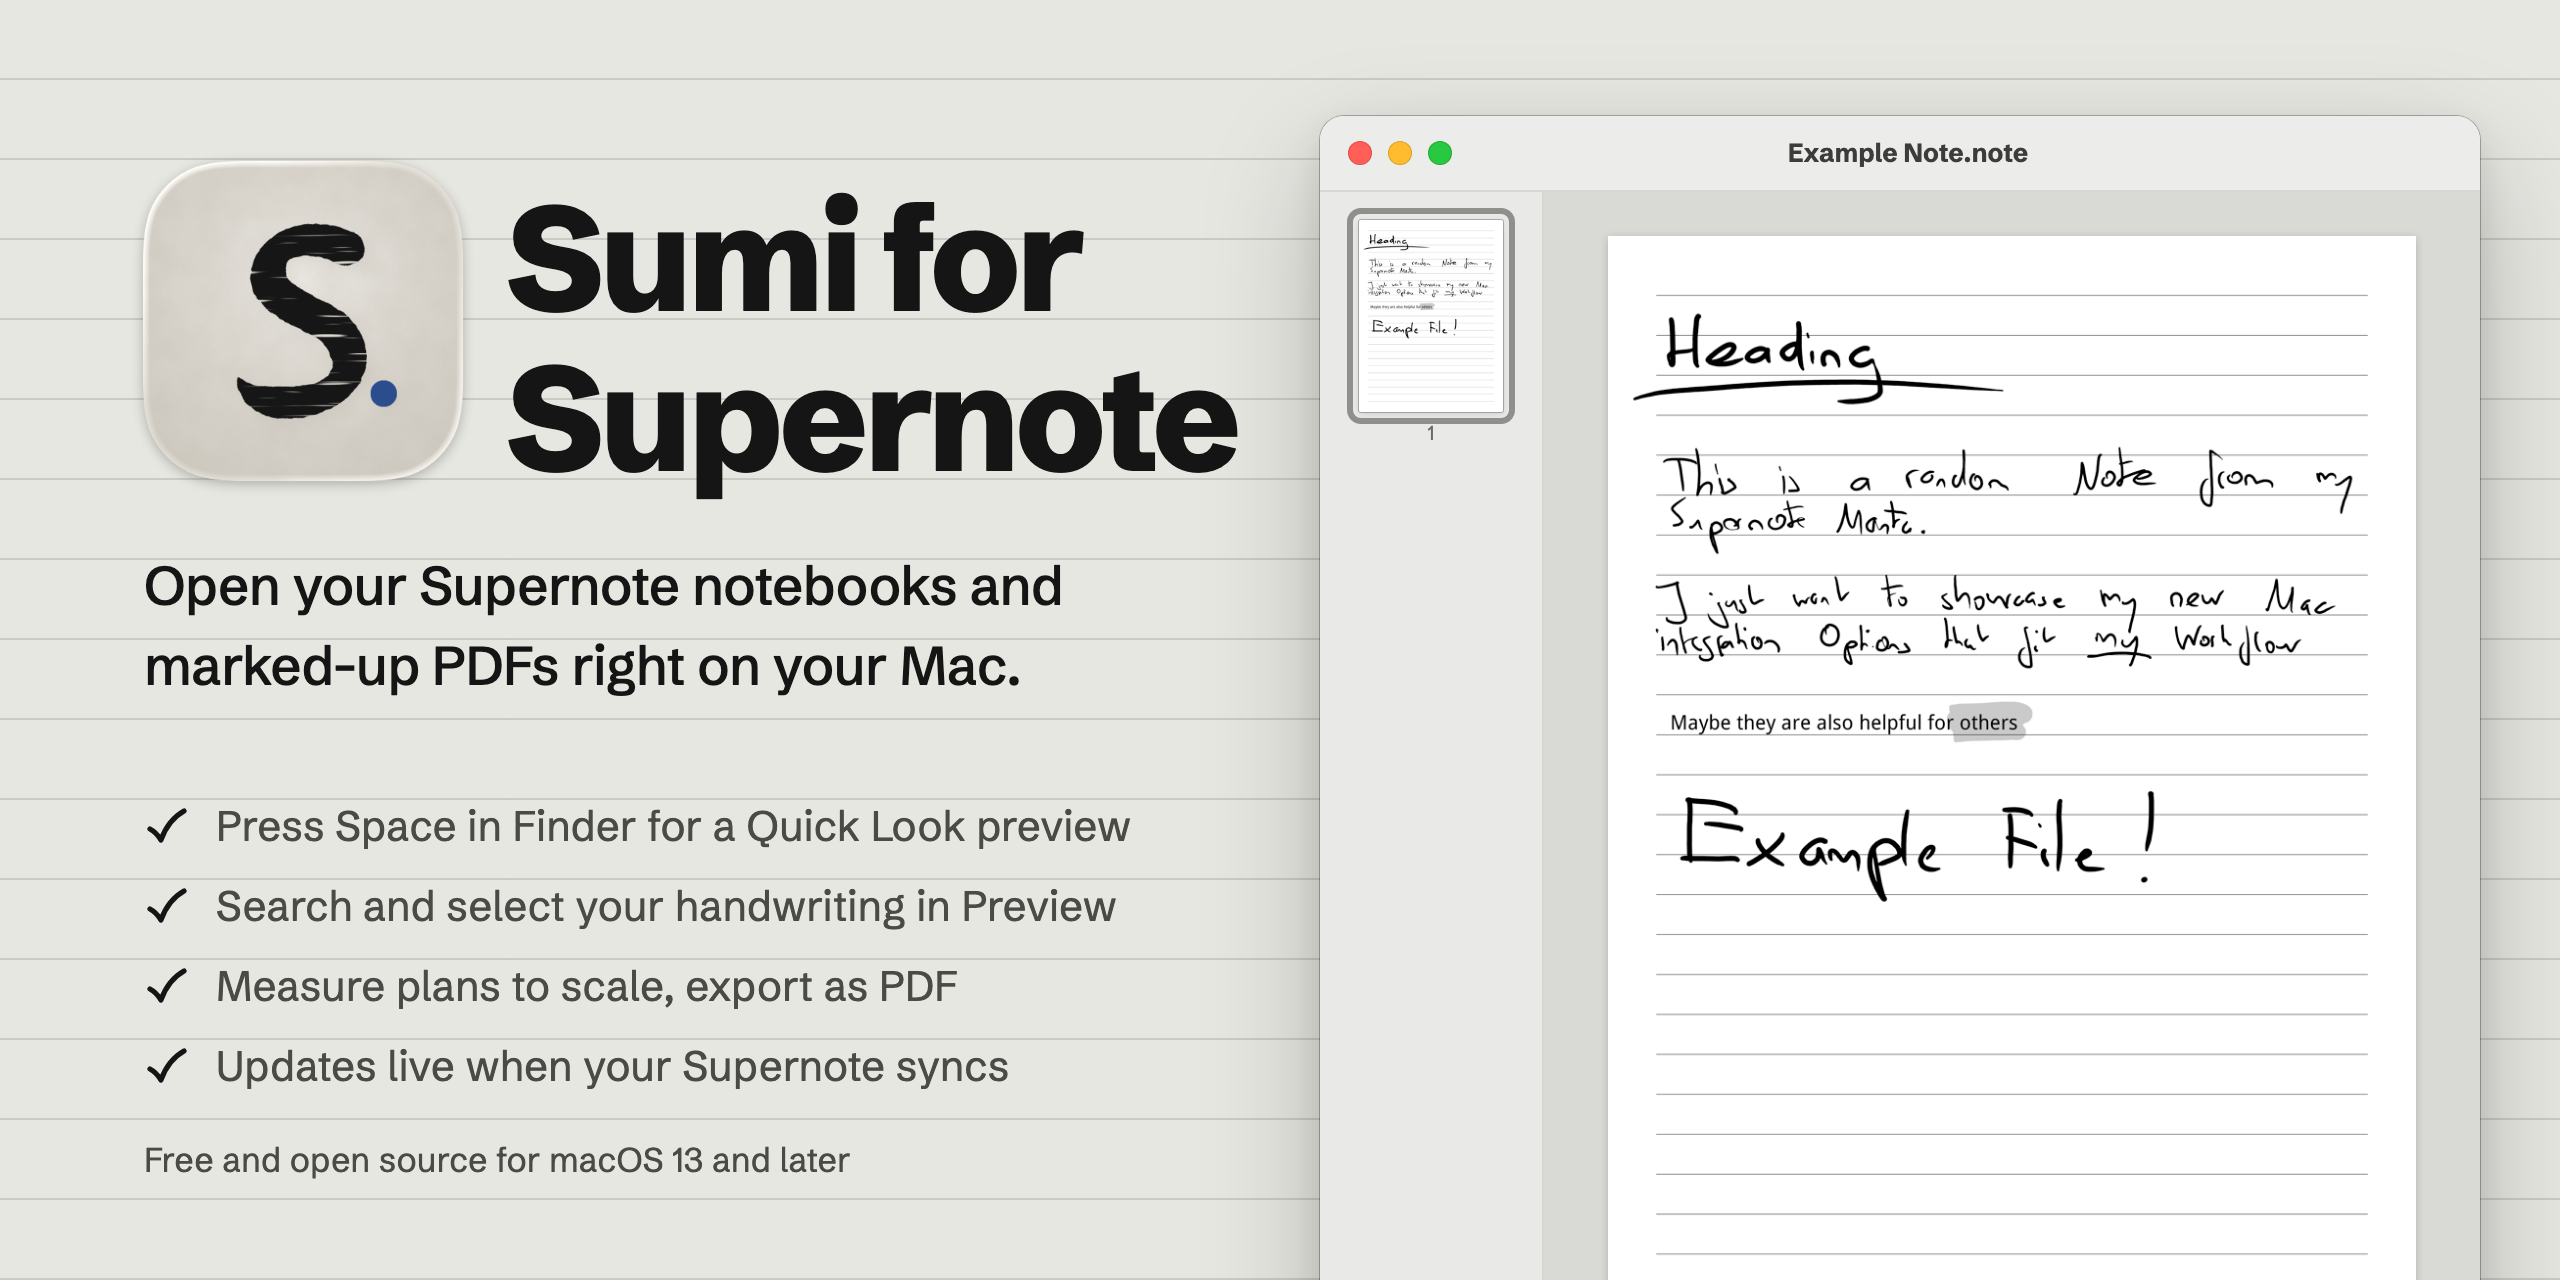
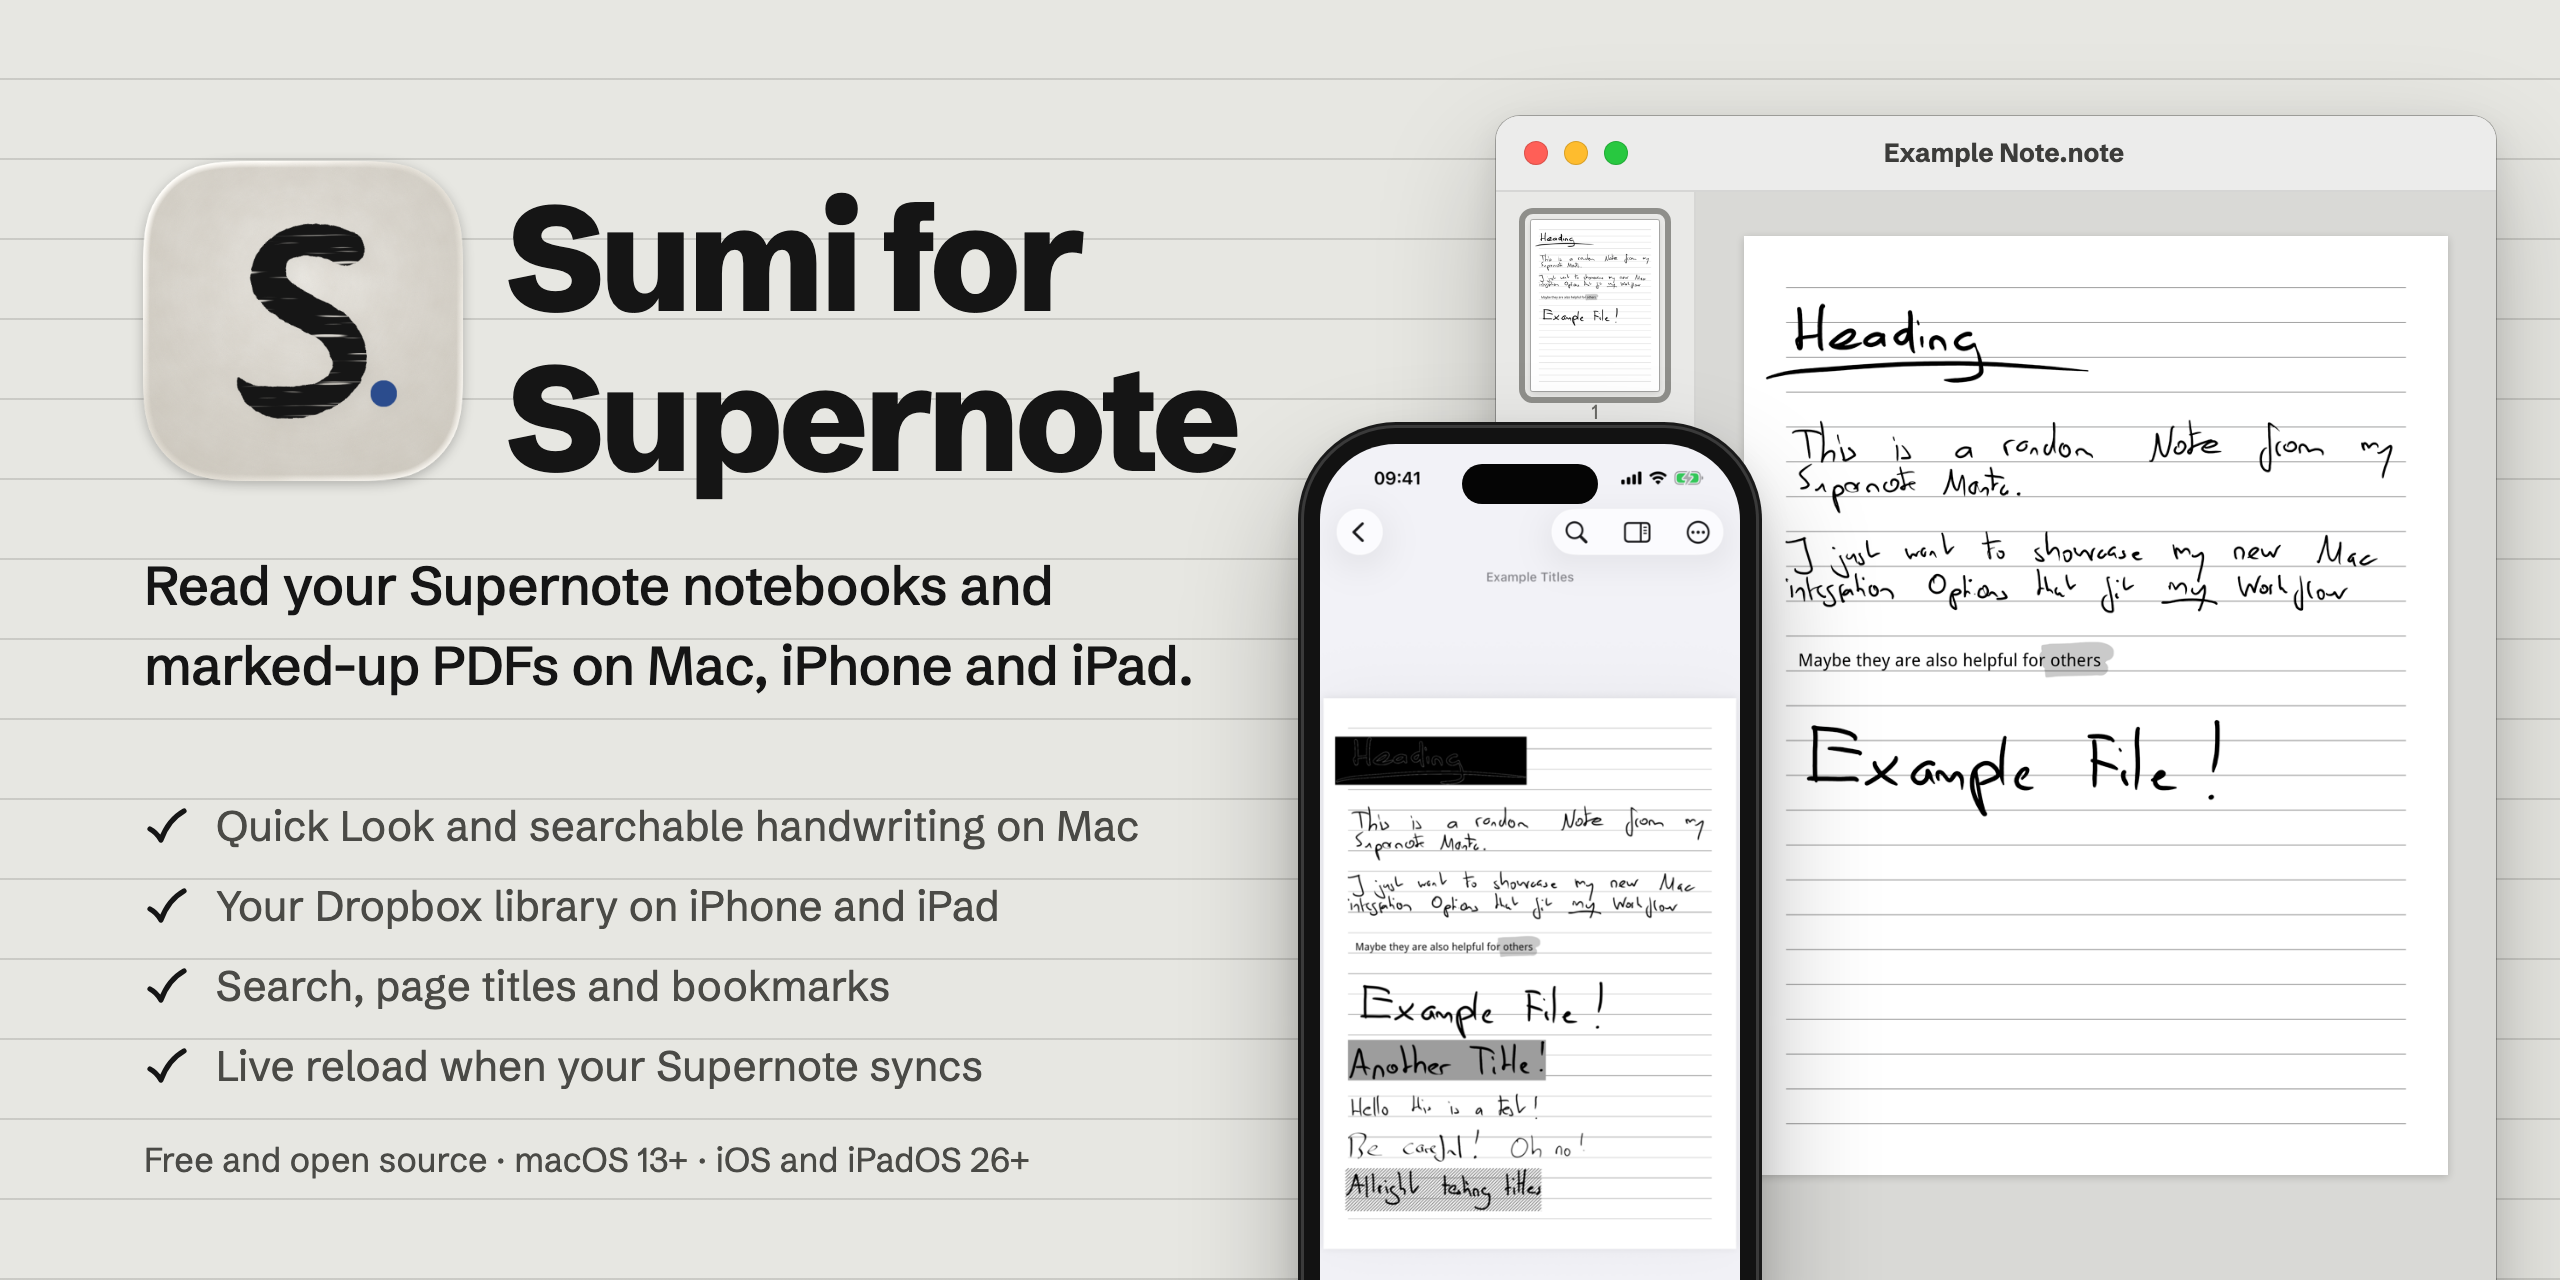
Improved images

diff --git a/docs/hero/hero.html b/docs/hero/hero.html
@@ -54,10 +54,10 @@
 
   /* macOS window */
   .win {
-    position: absolute; left: 660px; top: 58px; width: 580px; height: 640px;
+    position: absolute; left: 748px; top: 58px; width: 500px; height: 640px;
     background: var(--window); border-radius: 12px; overflow: hidden;
     box-shadow: 0 0 0 0.5px rgba(0,0,0,.28), 0 24px 60px rgba(0,0,0,.22), 0 6px 16px rgba(0,0,0,.10);
-    display: grid; grid-template-rows: 38px 1fr; grid-template-columns: 112px 1fr;
+    display: grid; grid-template-rows: 38px 1fr; grid-template-columns: 100px 1fr;
   }
   .bar {
     grid-column: 1 / -1; display: flex; align-items: center; padding: 0 14px; gap: 8px;
@@ -70,25 +70,37 @@
     padding: 14px 16px; display: flex; flex-direction: column; gap: 14px; align-items: center;
   }
   .side figure { display: flex; flex-direction: column; align-items: center; gap: 4px; }
-  .side img { width: 72px; display: block; box-shadow: 0 0 0 0.5px rgba(0,0,0,.25), 0 1px 3px rgba(0,0,0,.12); }
+  .side img { width: 64px; display: block; box-shadow: 0 0 0 0.5px rgba(0,0,0,.25), 0 1px 3px rgba(0,0,0,.12); }
   .side figure.sel img { outline: 3px solid #8f8f8b; outline-offset: 3px; border-radius: 1px; }
   .side figcaption { font-size: 10px; color: #6b6b67; }
   .main { background: var(--canvas); padding: 22px 0 0; display: flex; justify-content: center; }
-  .main img { width: 404px; height: fit-content; display: block; box-shadow: 0 1px 4px rgba(0,0,0,.18); }
+  .main img { width: 352px; height: fit-content; display: block; box-shadow: 0 1px 4px rgba(0,0,0,.18); }
+
+  /* iPhone in front of the window's lower left corner; iphone.png is a simulator screenshot. */
+  .phone {
+    position: absolute; left: 652px; top: 214px; width: 226px; height: 486px;
+    background: #121212; border-radius: 46px; padding: 8px;
+    box-shadow: 0 0 0 1.5px #3a3a3a, 0 0 0 3px #1a1a1a, 0 30px 60px rgba(0,0,0,.30), 0 8px 18px rgba(0,0,0,.16);
+  }
+  .phone img { width: 100%; display: block; border-radius: 38px; }
+  .phone .island {
+    position: absolute; top: 18px; left: 50%; transform: translateX(-50%);
+    width: 68px; height: 20px; border-radius: 10px; background: #050505;
+  }
 </style>
 </head>
 <body>
   <div class="copy">
     <div class="head"><img src="app-icon.png" alt=""><h1>Sumi for Supernote</h1></div>
-    <p class="pitch">Open your Supernote notebooks and marked-up PDFs right on your Mac.</p>
+    <p class="pitch">Read your Supernote notebooks and marked-up PDFs on Mac, iPhone and iPad.</p>
     <ul>
-      <li><svg viewBox="0 0 22 22"><path d="M3 12.5 Q6 14 8.5 18 Q12 8 20 3.5" fill="none" stroke="#151515" stroke-width="2.6" stroke-linecap="round" stroke-linejoin="round"/></svg>Press Space in Finder for a Quick Look preview</li>
-      <li><svg viewBox="0 0 22 22"><path d="M3 12.5 Q6 14 8.5 18 Q12 8 20 3.5" fill="none" stroke="#151515" stroke-width="2.6" stroke-linecap="round" stroke-linejoin="round"/></svg>Search and select your handwriting in Preview</li>
-      <li><svg viewBox="0 0 22 22"><path d="M3 12.5 Q6 14 8.5 18 Q12 8 20 3.5" fill="none" stroke="#151515" stroke-width="2.6" stroke-linecap="round" stroke-linejoin="round"/></svg>Measure plans to scale, export as PDF</li>
-      <li><svg viewBox="0 0 22 22"><path d="M3 12.5 Q6 14 8.5 18 Q12 8 20 3.5" fill="none" stroke="#151515" stroke-width="2.6" stroke-linecap="round" stroke-linejoin="round"/></svg>Updates live when your Supernote syncs</li>
+      <li><svg viewBox="0 0 22 22"><path d="M3 12.5 Q6 14 8.5 18 Q12 8 20 3.5" fill="none" stroke="#151515" stroke-width="2.6" stroke-linecap="round" stroke-linejoin="round"/></svg>Quick Look and searchable handwriting on Mac</li>
+      <li><svg viewBox="0 0 22 22"><path d="M3 12.5 Q6 14 8.5 18 Q12 8 20 3.5" fill="none" stroke="#151515" stroke-width="2.6" stroke-linecap="round" stroke-linejoin="round"/></svg>Your Dropbox library on iPhone and iPad</li>
+      <li><svg viewBox="0 0 22 22"><path d="M3 12.5 Q6 14 8.5 18 Q12 8 20 3.5" fill="none" stroke="#151515" stroke-width="2.6" stroke-linecap="round" stroke-linejoin="round"/></svg>Search, page titles and bookmarks</li>
+      <li><svg viewBox="0 0 22 22"><path d="M3 12.5 Q6 14 8.5 18 Q12 8 20 3.5" fill="none" stroke="#151515" stroke-width="2.6" stroke-linecap="round" stroke-linejoin="round"/></svg>Live reload when your Supernote syncs</li>
     </ul>
   </div>
-  <p class="foot">Free and open source for macOS 13 and later</p>
+  <p class="foot">Free and open source · macOS 13+ · iOS and iPadOS 26+</p>
 
   <div class="win">
     <div class="bar">
@@ -102,5 +114,7 @@
     </div>
     <div class="main"><img src="note.png" alt=""></div>
   </div>
+
+  <div class="phone"><img src="iphone.png" alt=""><span class="island"></span></div>
 </body>
 </html>

diff --git a/README.md b/README.md
@@ -1,44 +1,66 @@
 <p align="center">
-  <img src="docs/images/hero.png" alt="Sumi for Supernote: open your Supernote notebooks and marked-up PDFs right on your Mac" width="100%">
+  <img src="docs/images/hero.png" alt="Sumi for Supernote: read your Supernote notebooks and marked-up PDFs on Mac, iPhone and iPad" width="100%">
 </p>
 
 <p align="center">
   <a href="https://github.com/schaefer-dev/supernote-viewer/releases/latest"><img alt="Download" src="https://img.shields.io/github/v/release/schaefer-dev/supernote-viewer?label=download&color=333"></a>
   <img alt="macOS 13+" src="https://img.shields.io/badge/macOS-13%2B-333">
+  <img alt="iOS and iPadOS 26+" src="https://img.shields.io/badge/iOS%20%26%20iPadOS-26%2B-333">
   <img alt="Swift" src="https://img.shields.io/badge/Swift-5-333">
   <a href="LICENSE"><img alt="MIT license" src="https://img.shields.io/badge/license-MIT-333"></a>
 </p>
 
-Your Supernote syncs `.note` notebooks and `.pdf.mark` annotations to your Mac, but macOS can't open them. These two small apps fix that. Notebooks open with a double-click, preview with Space and can be searched like any other PDF. Everything runs on your Mac: no cloud, no account, no network access.
+Your Supernote syncs `.note` notebooks and `.pdf.mark` annotations, but neither macOS nor iOS can open them. **Sumi for Supernote** fixes that on your Mac, iPhone and iPad. Handwriting is drawn as crisp vector ink from the notebook's own pen data and made searchable with on-device text recognition. No sign-up and no tracking: your notes stay on your devices and in your own Dropbox.
 
-- **Sumi for Supernote** opens notes in its own window, with thumbnails, live reload and a measuring tool.
-- **Supernote Preview Bridge** turns notes into PDFs and opens them in Apple's **Preview**, so you keep the tools you already know.
+| | App | What it does |
+|---|---|---|
+| **Mac** | **Sumi for Supernote** | Opens notes in its own window, with thumbnails, live reload and a measuring tool. |
+| **Mac** | **Supernote Preview Bridge** | Turns notes into PDFs and opens them in Apple's **Preview**, so you keep the tools you already know. |
+| **iPhone & iPad** | **Sumi** | Reads the notebooks and annotated PDFs your Supernote syncs to Dropbox, with search, page titles, bookmarks and favorites. |
 
-You pick which one opens your files on double-click. Both come with Quick Look.
+On the Mac, both apps come with Quick Look, and you pick which one opens your files on double-click.
 
 ## Features
 
-### Opens in Preview, with searchable handwriting
+### On your Mac
+
+#### Opens in Preview, with searchable handwriting
 
 Double-click a notebook and it opens in Apple's Preview. Handwriting is drawn as vector strokes from the notebook's own pen data, so it stays crisp at any zoom. Apple's on-device text recognition adds an invisible text layer (English and German), so you can search with ⌘F and select and copy your handwriting. Typed text boxes and marker highlights come through as well. Titles you mark on the Supernote become the PDF's table of contents (View → Table of Contents), so you can jump between sections.
 
 <p align="center"><img src="docs/images/preview.jpg" alt="A Supernote notebook opened in Preview" width="520"></p>
 
-### Quick Look in Finder
+#### Quick Look in Finder
 
 Select a `.note` or `.pdf.mark` file and press Space for a full preview without opening any app.
 
-### Sumi for Supernote: its own window, with live reload
+#### Sumi for Supernote: its own window, with live reload
 
 Marked-up PDFs show your handwriting on top of the original document. There's a thumbnails sidebar (⌥⌘2). When your Supernote syncs a change, the open window updates by itself, so you can keep a notebook open on your Mac while you write on the device.
 
 <p align="center"><img src="docs/images/viewer.jpg" alt="Sumi for Supernote showing a PDF with handwritten Supernote annotations" width="640"></p>
 
-### Measure plans to scale
+#### Measure plans to scale
 
 For floor plans and sketches: choose **Calibrate** and drag along a length you know (e.g. `2,23 m`), then choose **Measure** and drag. Hold ⇧ for straight lines; click a line and press ⌫ to delete it. **Export PDF…** saves the measurements as standard PDF annotations. Calibrations and measurements are saved per file. Measuring also works on plain PDFs (Open With → Sumi for Supernote, or the Finder Quick Action **Measure in Sumi for Supernote**).
 
-## Install
+### On iPhone and iPad
+
+**Sumi** brings the same renderer to iPhone and iPad (iOS and iPadOS 26 or later).
+
+- **Your Supernote library from Dropbox.** Connect Dropbox with read-only access, choose the folder your Supernote syncs to, and browse your notebooks and annotated PDFs. Sumi never changes, uploads or deletes anything.
+- **Ready offline.** Turn on **Sync All When App Opens** and new and changed documents in your library folder are downloaded each time Sumi opens, so they're there when you're not online.
+- **Search your handwriting.** Find words in handwritten notes, jump through matches, and open a page grid with the titles you marked on the Supernote.
+- **Bookmarks and favorites.** Star whole documents or bookmark a page; bookmarks show the page's handwritten title. Home keeps favorites and recent documents one tap away.
+- **Opens shared files too.** Open a `.note` or `.pdf.mark` from Files, Mail or any other app, and export any document as a PDF.
+
+<p align="center">
+  <img src="docs/images/iphone.jpg" alt="Sumi on iPhone showing a handwritten notebook with titles" width="230">
+  &nbsp;&nbsp;
+  <img src="docs/images/ipad.jpg" alt="Sumi on iPad showing a handwritten notebook" width="400">
+</p>
+
+## Install on your Mac
 
 1. Download the **.dmg** from the [latest release](https://github.com/schaefer-dev/supernote-viewer/releases/latest).
 2. Open it and drag both apps to **Applications**. The apps are signed, so they should open without any security warnings.
@@ -90,8 +112,9 @@ This builds both apps and installs them to `/Applications`, replacing a copy ins
 - `Shared/`: the render cache used by both apps.
 - `Viewer/`: Sumi for Supernote. Its PDFKit window has thumbnails, live reload and measuring. It exports the `.note` and `.mark` file types.
 - `Bridge/`: Supernote Preview Bridge. It hands rendered PDFs to Preview. It imports the file types, so it works on its own.
+- `ViewerIOS/`: Sumi for iPhone and iPad (SwiftUI). It reads documents from Dropbox with read-only access and renders them with SupernoteKit. `ViewerIOSUITests/` drives it with the files in `examples/`.
 - `project.yml`: the XcodeGen spec. The `.xcodeproj` is generated from it.
-- `Viewer/AppIcon.icon`, `Bridge/AppIcon.icon`: the app icons, made for Icon Composer (layers, glass, light-only appearance). Xcode builds the macOS 13–15 images from them.
+- `Viewer/AppIcon.icon`, `Bridge/AppIcon.icon`, `ViewerIOS/AppIcon.icon`: the app icons, made for Icon Composer (layers, glass, light-only appearance). Xcode builds the macOS 13–15 images from them. The brush S and washi layers are PNGs rendered by `Artwork/render.sh`; `Artwork/sumi/` has the brand artwork.
 - `Artwork/`: icon sources. `render.sh` regenerates the icon layers and the `.note`/`.mark` document icons (`Shared/*.icns`) from `artwork.py`. `release.sh` uses `app-icon.swift` for the DMG volume icon, and the README banner uses it too.
 - `docs/hero/`: source of the README banner (`render.sh` regenerates it).
 
@@ -125,16 +148,3 @@ Format notes come from [supernotelib](https://github.com/jya-dev/supernote-tool)
 ## License
 
 [MIT](LICENSE). Not affiliated with Ratta or Supernote.
-
-## iPhone and iPad (iOS 26+)
-
-The iPhone and iPad app, **Sumi** (Sumi for Supernote on the App Store), is in `ViewerIOS/`. It supports Dropbox browsing/opening,
-opening documents shared from other apps, PDFKit reading/search, a page grid and
-titles, PDF export, recents and local Dropbox favorites. Star whole documents from
-document lists, or bookmark the current page from the reader; bookmarks show the
-page's handwritten title and number. Home provides quick access, and the full
-Favorites list supports manual ordering. Favoriting does not download documents
-automatically. It displays a complete preview before handwriting OCR.
-See [iOS setup and validation](docs/ios-implementation.md) for configuration,
-build commands and outstanding real-account/physical-device checks. Offline
-pinning and synchronization remain [later roadmap work](docs/ios-port-plan.md).
